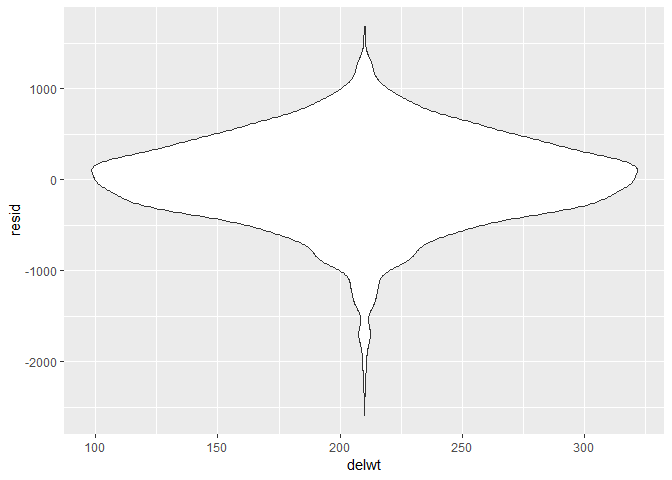
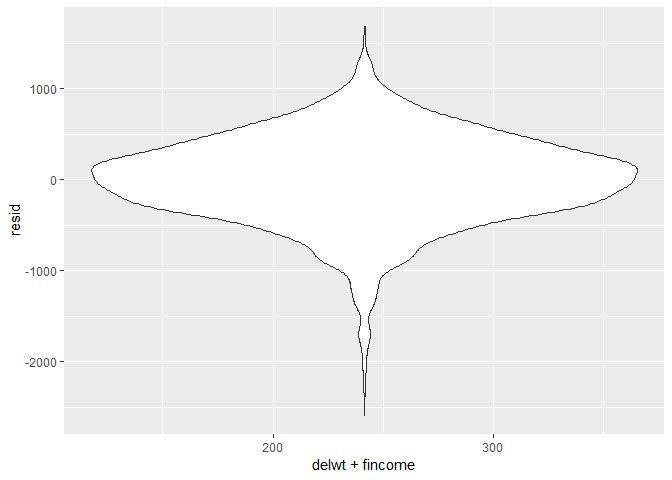
Adding comments

diff --git a/p8105_hw6_ph2538.md b/p8105_hw6_ph2538.md
@@ -204,6 +204,8 @@ Propose a regression model for birthweight. This model may be based on a
 hypothesized structure for the factors that underly birthweight, on a
 data-driven model-building process, or a combination of the two.
 
+Describe your modeling process.
+
 ``` r
 mod_inc_delwt = 
   birthweight_data %>%
@@ -272,30 +274,19 @@ indication of mother’s nutritional status and health.
 ``` r
 mod_inc_delwt %>% 
   modelr::add_residuals(lm_inc_delwt) %>% 
-  ggplot(aes(x = delwt, y = resid)) + geom_violin()
+  ggplot(aes(x = delwt + fincome, y = resid)) + geom_violin()
 ```
 
 ![](p8105_hw6_ph2538_files/figure-gfm/unnamed-chunk-7-1.png)<!-- -->
 
 This plot shows that most of the residuals fall around 0 for mother’s
-weight at delivery, which means it may be a good model.
-
-``` r
-mod_inc_delwt %>% 
-  modelr::add_residuals(lm_inc_delwt) %>% 
-  ggplot(aes(x = fincome, y = resid)) + geom_violin()
-```
-
-![](p8105_hw6_ph2538_files/figure-gfm/unnamed-chunk-8-1.png)<!-- -->
-
-Similarly, this plot shows that most of the residuals fall around 0 for
-family income, which means it may be a good model.
+weight at delivery plus family income, which means it may be a good
+model.
 
 ### Plot of model residuals against fitted values
 
-Describe your modeling process and show a plot of model residuals
-against fitted values – use add\_predictions and add\_residuals in
-making this plot.
+Show a plot of model residuals against fitted values – use
+add\_predictions and add\_residuals in making this plot.
 
 ``` r
 birthweight_data %>% 
@@ -304,7 +295,7 @@ birthweight_data %>%
   ggplot(aes(x = pred, y = resid)) + geom_point()
 ```
 
-![](p8105_hw6_ph2538_files/figure-gfm/unnamed-chunk-9-1.png)<!-- -->
+![](p8105_hw6_ph2538_files/figure-gfm/unnamed-chunk-8-1.png)<!-- -->
 
 This plot shows that most points cluster (around resid = 0 and pred =
 3100), which indicates that it may be a good model.
@@ -465,7 +456,13 @@ cv_df %>%
   ggplot(aes(x = model, y = rmse)) + geom_violin()
 ```
 
-![](p8105_hw6_ph2538_files/figure-gfm/unnamed-chunk-13-1.png)<!-- -->
+![](p8105_hw6_ph2538_files/figure-gfm/unnamed-chunk-12-1.png)<!-- -->
+
+The plot shows that the model using monthly family income and mother’s
+weight at delivery (inc\_delwt) is the worst model because it has the
+highest rmse values. It is noticeably much higher compared to the other
+two models. The third model (hc\_len\_sex) is the best model with the
+lowest rmse values.
 
 ``` r
 rmse(lm_inc_delwt, birthweight_data)
@@ -485,9 +482,9 @@ rmse(lm_hc_len_sex, birthweight_data)
 
     ## [1] 287.4692
 
-The model using head circumference, length, sex, and all interactions
-(including the three-way interaction) between these (hc\_len\_sex) is
-the best model because it has the lowest RMSE value of 287.4692441. In
-contrast, model using monthly family income and mother’s weight at
-delivery (inc\_delwt) is the worst model with the highest RMSE value of
-484.7933794
+The RMSE values confirm what the plot shows. The model using head
+circumference, length, sex, and all interactions (including the
+three-way interaction) between these (hc\_len\_sex) is the best model
+because it has the lowest RMSE value of 287.4692441. In contrast, model
+using monthly family income and mother’s weight at delivery (inc\_delwt)
+is the worst model with the highest RMSE value of 484.7933794
